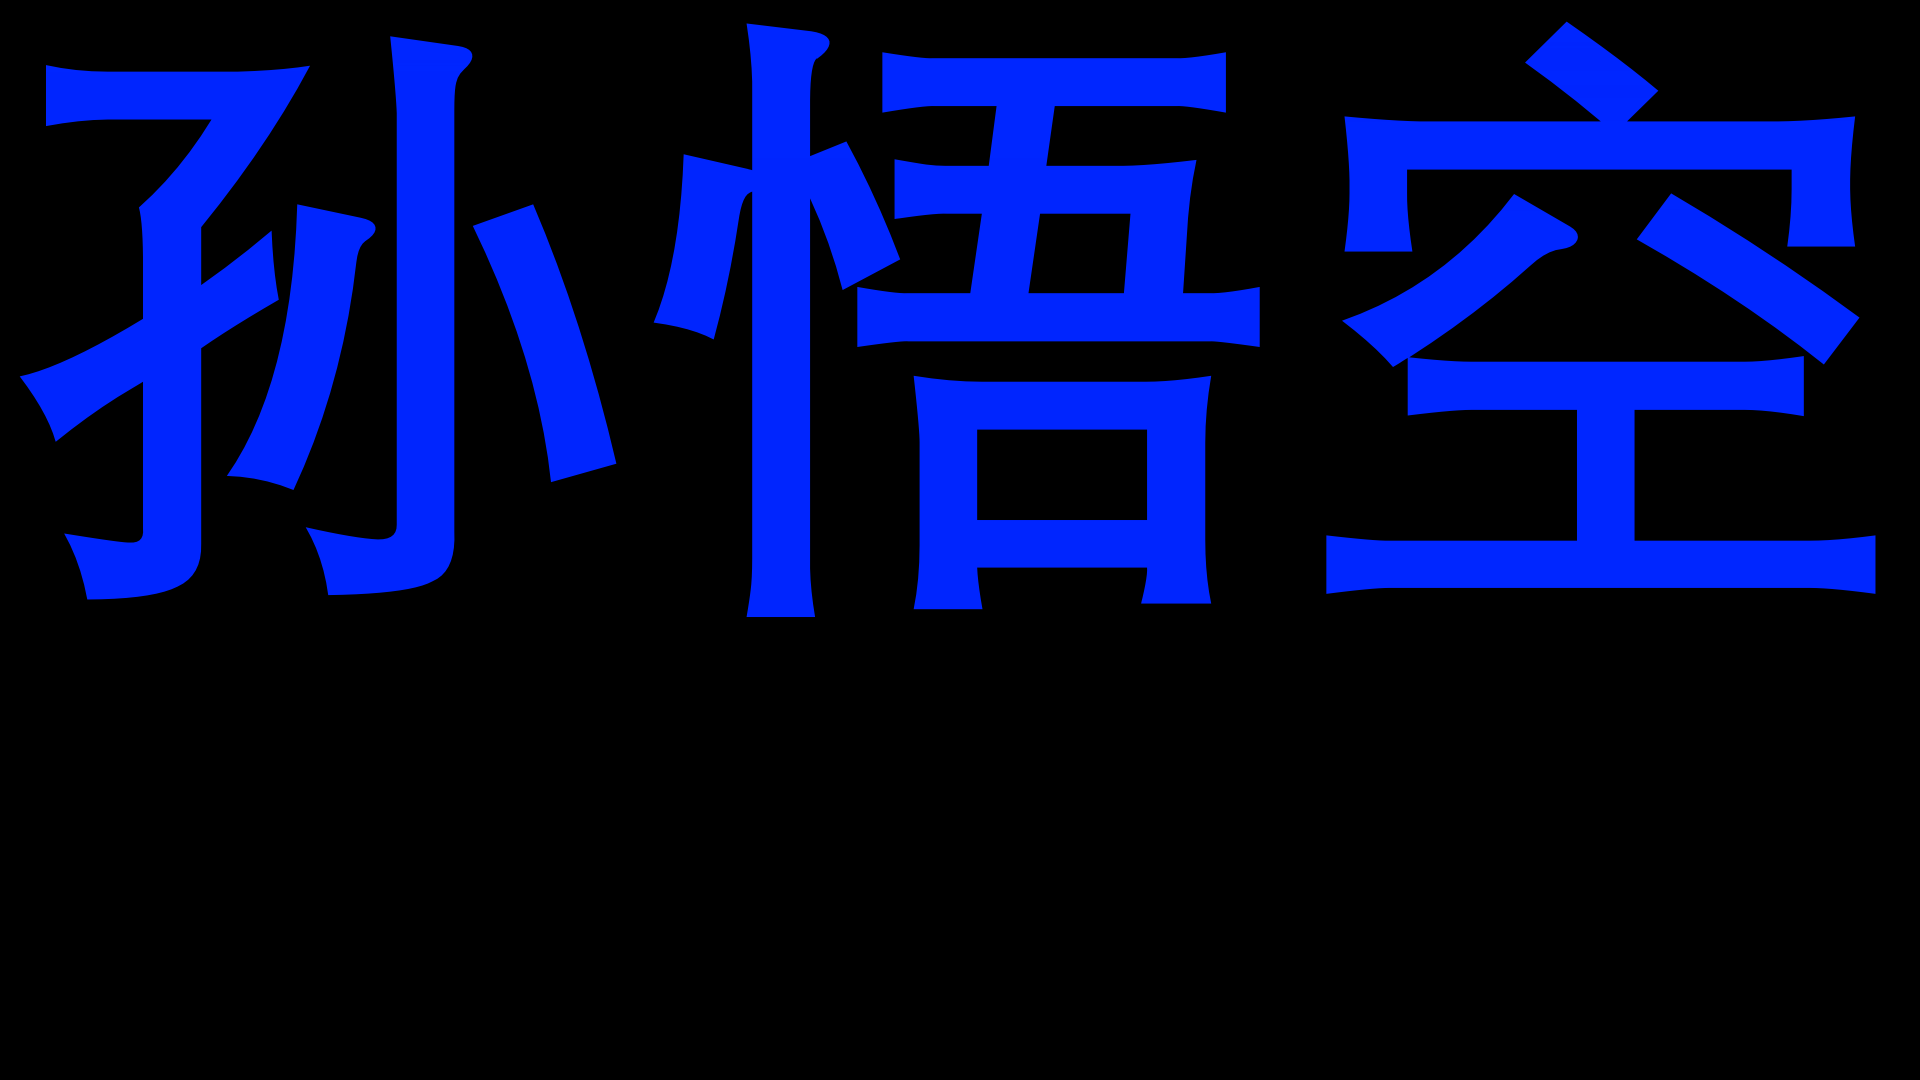
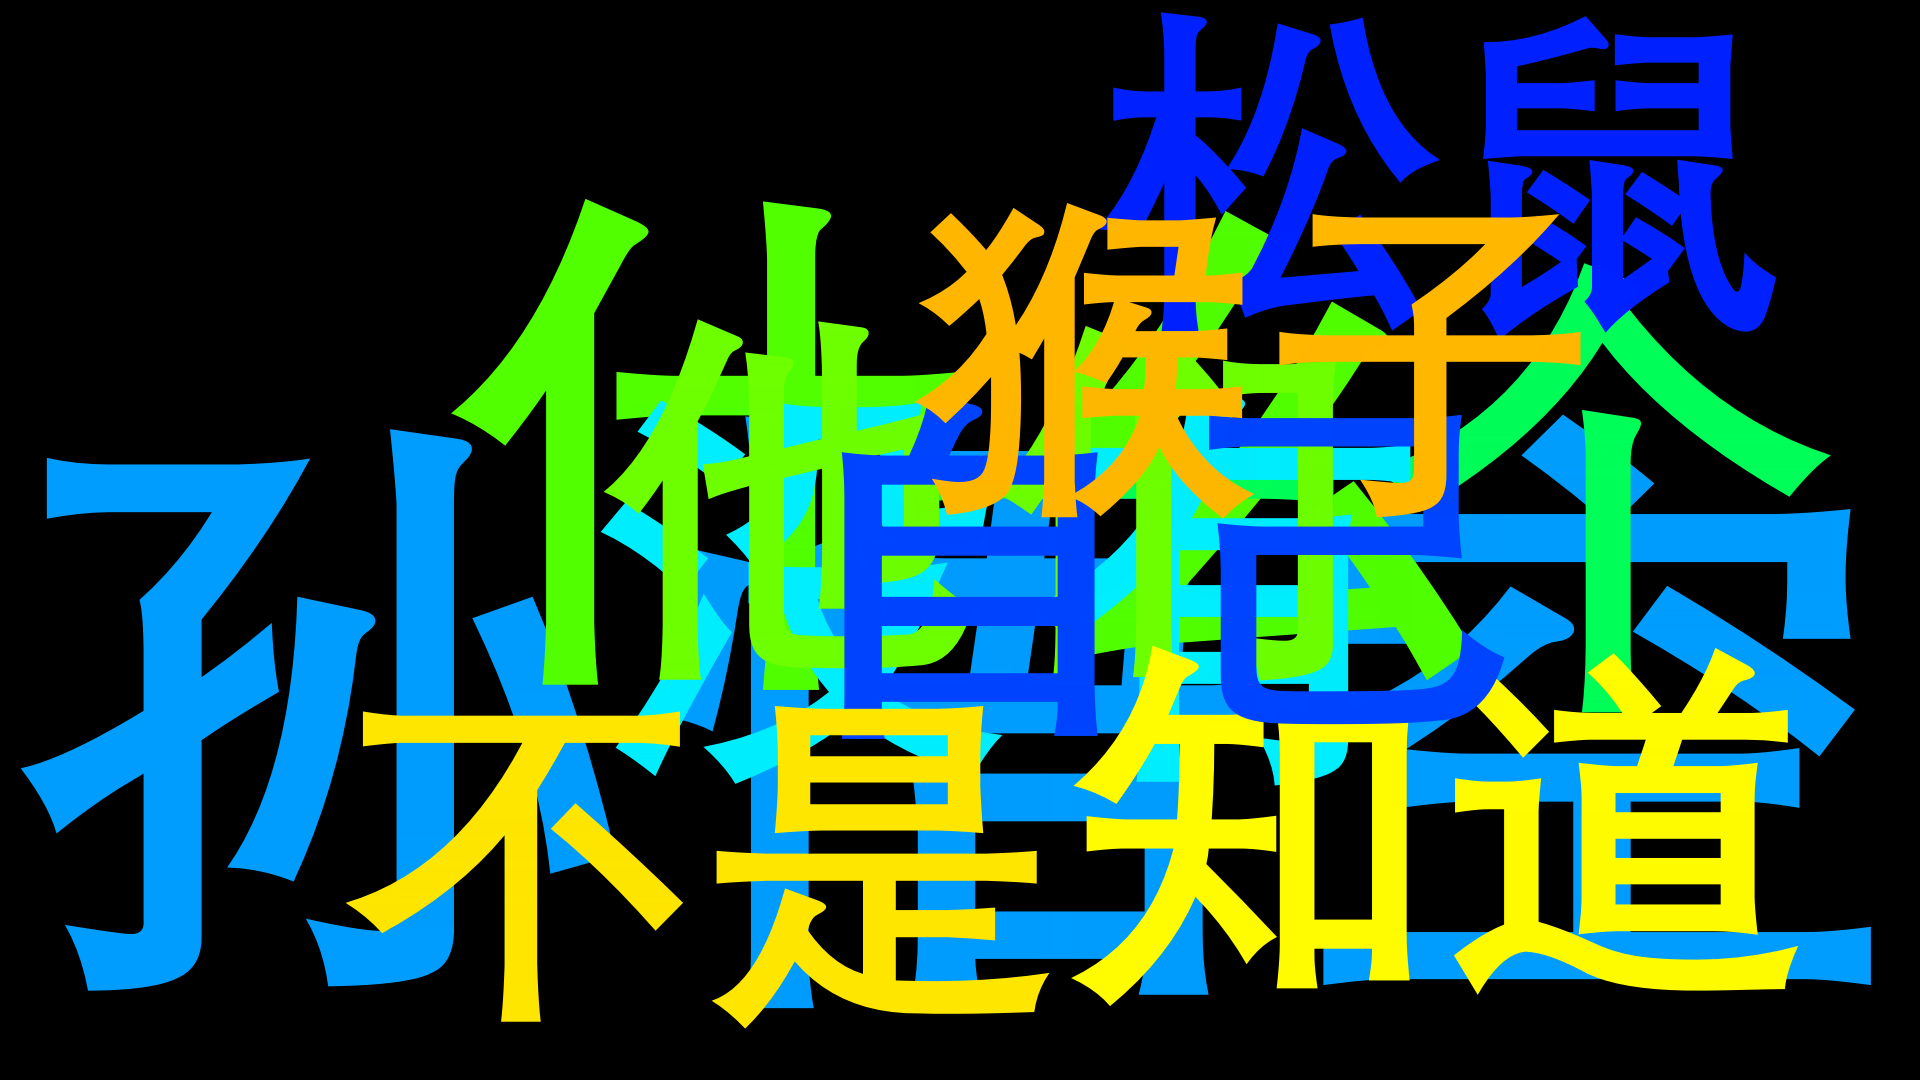
[wordcloud] 字体重叠了！！！

diff --git a/src/lib.rs b/src/lib.rs
@@ -1,7 +1,7 @@
 use std::{fs, path::PathBuf};
 
 use ab_glyph::{point, FontVec, Point, PxScale};
-use image::{GrayImage, Luma, Rgba, RgbaImage};
+use image::{GrayImage, ImageBuffer, Luma, Rgba, RgbaImage};
 use nanorand::{Rng, WyRand};
 use palette::{Hsl, IntoColor, Pixel, Srgb};
 use sat::Rect;
@@ -118,7 +118,7 @@ impl WordCloud {
     ) -> RgbaImage {
         let words = self.tokenizer.get_normalized_word_frequencies(text);
 
-        let (summed_area_table, mut gray_buffer) = match size {
+        let (mut summed_area_table, mut gray_buffer) = match size {
             WordCloudSize::FromDimensions { width, height } => {
                 let buf = GrayImage::from_pixel(width, height, Luma([0]));
                 let summed_area_table = buf.as_raw().iter().map(|e| *e as u32).collect::<Vec<_>>();
@@ -127,8 +127,8 @@ impl WordCloud {
             }
         };
 
-        //  let mut final_words = Vec::with_capacity(words.len());
-        // let mut last_freq = 1.0;
+        let mut final_words = Vec::with_capacity(words.len());
+        let mut last_freq = 1.0;
         // let skip_list = create_mask_skip_list(&gray_buffer);
 
         let mut rng = match self.rng_seed {
@@ -137,8 +137,10 @@ impl WordCloud {
         };
 
         let first_word = words.first().expect("There are no words!");
-        //使用第一个词的长宽来作为参考
-        let font_size = {
+        // First, we determine an appropriate font size to start with based on the height of the canvas.
+        // Rasterizing the first word in the sorted list at a font size of 95% the canvas height produces a
+        // bounding rectangle we can use as a heuristic
+        let mut font_size = {
             let rect_at_image_height = self.text_dimensions_at_font_size(
                 first_word.0,
                 PxScale::from(gray_buffer.height() as f32 * 0.95),
@@ -150,21 +152,51 @@ impl WordCloud {
 
             start_height
         };
-        let glyphs = text::text_to_glyphs(first_word.0, &self.font, PxScale::from(font_size));
 
-        let pos = point(0.0, 0.0);
-        text::draw_glyphs_to_gray_buffer(&mut gray_buffer, glyphs.clone(), &self.font, pos, false);
+        for (word, freq) in &words {
+            if self.relative_font_scaling != 0.0 {
+                font_size *= self.relative_font_scaling * (freq / last_freq)
+                    + (1.0 - self.relative_font_scaling);
+            }
 
-        let final_words = vec![Word {
-            text: first_word.0,
-            font: &self.font,
-            font_size: PxScale::from(font_size),
-            glyphs,
-            rotated: false,
-            position: pos,
-            frequency: first_word.1,
-            index: 0,
-        }];
+            if font_size < self.min_font_size {
+                break;
+            }
+
+            let (pos, glyphs) = match self.place_word(
+                word,
+                &mut font_size,
+                &gray_buffer,
+                &summed_area_table,
+                &mut rng,
+            ) {
+                Some(some) => some,
+                None => continue,
+            };
+
+            u8_to_u32_vec(&gray_buffer, &mut summed_area_table);
+
+            final_words.push(Word {
+                text,
+                font: &self.font,
+                font_size: PxScale::from(font_size),
+                glyphs: glyphs.clone(),
+                rotated: false,
+                position: pos,
+                frequency: *freq,
+                index: final_words.len(),
+            });
+
+            u8_to_u32_vec(&gray_buffer, &mut summed_area_table);
+            let start_row = (pos.y - 1.0).min(0.0) as usize;
+            sat::to_summed_area_table(
+                &mut summed_area_table,
+                gray_buffer.width() as usize,
+                start_row,
+            );
+
+            last_freq = *freq;
+        }
 
         WordCloud::generate_from_word_positions(
             &mut rng,
@@ -177,11 +209,76 @@ impl WordCloud {
         )
     }
 
+    fn place_word(
+        &self,
+        word: &str,
+        font_size: &mut f32,
+        gray_buffer: &ImageBuffer<Luma<u8>, Vec<u8>>,
+        summed_area_table: &Vec<u32>,
+        rng: &mut WyRand,
+    ) -> Option<(Point, GlyphData)> {
+        loop {
+            let glyphs = text::text_to_glyphs(word, &self.font, PxScale::from(*font_size));
+            let rect = Rect {
+                width: glyphs.width + self.word_margin,
+                height: glyphs.height + self.word_margin,
+            };
+
+            if rect.width > gray_buffer.width() || rect.height > gray_buffer.height() {
+                if let Some(next_font_size) =
+                    Self::check_font_size(*font_size, self.font_step, self.min_font_size)
+                {
+                    *font_size = next_font_size;
+                    continue;
+                } else {
+                    return None;
+                }
+            }
+
+            match sat::find_space_for_rect(
+                summed_area_table,
+                gray_buffer.width(),
+                gray_buffer.height(),
+                &rect,
+                rng,
+            ) {
+                Some(pos) => {
+                    let half_margin = self.word_margin as f32 / 2.0;
+                    let x = pos.x as f32 + half_margin;
+                    let y = pos.y as f32 + half_margin;
+
+                    return Some((point(x, y), glyphs));
+                }
+                None => {
+                    //TODO 横着放不行，试下竖着放
+                    if let Some(next_font_size) =
+                        Self::check_font_size(*font_size, self.font_step, self.min_font_size)
+                    {
+                        *font_size = next_font_size;
+                    } else {
+                        //TODO 横着放不行，试下竖着放
+                        return None;
+                    }
+                }
+            }
+        }
+    }
+
     fn text_dimensions_at_font_size(&self, text: &str, font_size: PxScale) -> Rect {
         let glyphs = text::text_to_glyphs(text, &self.font, font_size);
         Rect {
             width: glyphs.width + self.word_margin,
             height: glyphs.height + self.word_margin,
+        }
+    }
+
+    fn check_font_size(font_size: f32, font_step: f32, min_font_size: f32) -> Option<f32> {
+        let next_font_size = font_size - font_step;
+
+        if next_font_size >= min_font_size && next_font_size > 0.0 {
+            Some(next_font_size)
+        } else {
+            None
         }
     }
 }
@@ -208,4 +305,10 @@ fn create_mask_skip_list(img: &GrayImage) -> Vec<(usize, usize)> {
             (furthest_left, furthest_right)
         })
         .collect()
+}
+
+fn u8_to_u32_vec(buffer: &GrayImage, dst: &mut [u32]) {
+    for (i, el) in buffer.as_ref().iter().enumerate() {
+        dst[i] = *el as u32;
+    }
 }

diff --git a/src/sat.rs b/src/sat.rs
@@ -1,5 +1,90 @@
+use std::{io::Empty, num::Saturating};
+
+use nanorand::{Rng, WyRand};
+
 #[derive(Debug)]
 pub struct Rect {
     pub width: u32,
     pub height: u32,
+}
+
+#[derive(Clone, Debug)]
+pub struct Point {
+    pub x: u32,
+    pub y: u32,
+}
+
+pub fn region_is_empty(
+    table: &[u32],
+    table_width: usize,
+    x: usize,
+    y: usize,
+    width: usize,
+    height: usize,
+) -> bool {
+    let tl = table[y * table_width + x];
+    let tr = table[y * table_width + x + width];
+
+    let bl = table[(y + height) * table_width + x];
+    let br = table[(y + height) * table_width + x + width];
+
+    tl as i32 + br as i32 - tr as i32 - bl as i32 == 0
+}
+
+/// 在图片寻找位置写字
+pub fn find_space_for_rect(
+    table: &[u32],
+    table_width: u32,
+    table_height: u32,
+    rect: &Rect,
+    rng: &mut WyRand,
+) -> Option<Point> {
+    let max_x = table_width - rect.width;
+    let max_y = table_height - rect.height;
+
+    let mut available_points: u32 = 0;
+    let mut random_pont = None;
+
+    // column based
+    for y in 0..max_y {
+        for x in 0..max_x {
+            let empty = region_is_empty(
+                table,
+                table_width as usize,
+                x as usize,
+                y as usize,
+                rect.width as usize,
+                rect.height as usize,
+            );
+            if empty {
+                let random_num = rng.generate_range(0..=available_points);
+                if random_num == available_points {
+                    random_pont = Some(Point { x, y });
+                }
+                available_points += 1;
+            }
+        }
+    }
+
+    random_pont
+}
+
+/// https://blog.demofox.org/2018/04/16/prefix-sums-and-summed-area-tables/
+pub fn to_summed_area_table(table: &mut [u32], width: usize, start_row: usize) {
+    let mut prev_row = vec![0; width];
+    table
+        .chunks_exact_mut(width)
+        .skip(start_row)
+        .for_each(|row| {
+            let mut sum = 0;
+            row.iter_mut()
+                .zip(prev_row.iter())
+                .for_each(|(el, prev_row_el)| {
+                    let originval_value = *el;
+                    *el += sum + prev_row_el;
+                    sum += originval_value;
+                });
+
+            prev_row.clone_from_slice(row)
+        });
 }

diff --git a/examples/wukong/main.rs b/examples/wukong/main.rs
@@ -1,19 +1,17 @@
 use std::time::Instant;
 
-use nanorand::{Rng, WyRand};
-use rust_wcloud::{ChineseTokenizer, Word, WordCloud, WordCloudSize};
+use rust_wcloud::{ChineseTokenizer, WordCloud, WordCloudSize};
 
 /// 1.现在分词搞定了
 /// 2.思考如何进行排版
 pub fn main() {
     let wukong = include_str!("wukong.txt");
     let tokenlizer = ChineseTokenizer::default()
-    .with_max_words(100)
+        .with_max_words(10)
         .with_min_word_leng(2)
         .with_word("悟空传");
 
-    let wordcloud = WordCloud::default()
-        .with_tokenizer(tokenlizer);
+    let wordcloud = WordCloud::default().with_tokenizer(tokenlizer);
 
     let mask = WordCloudSize::FromDimensions {
         width: 1920,
